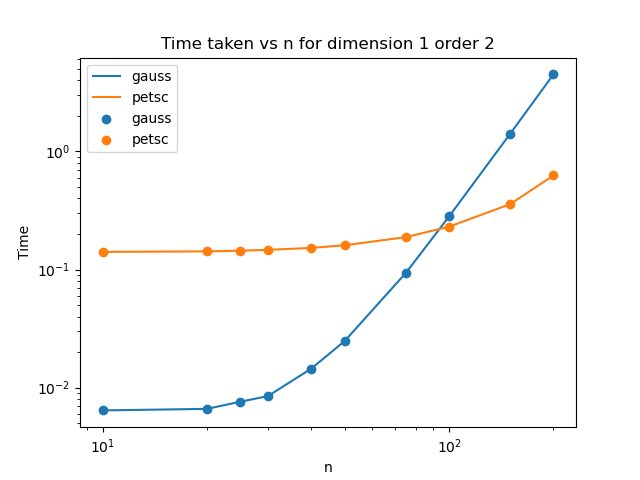
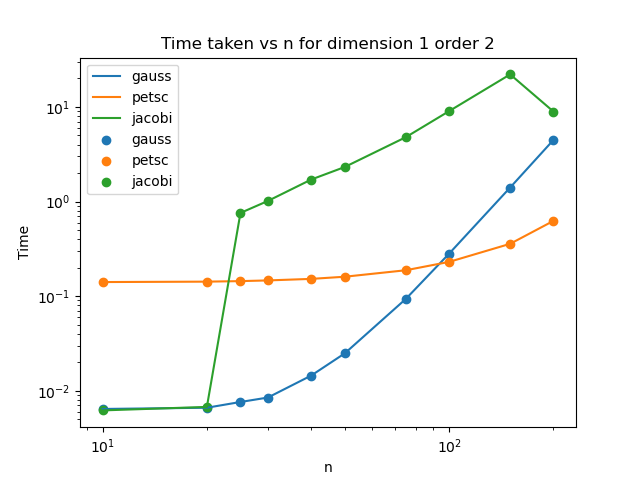
Added plots for jacobi

diff --git a/proj02/src/plot_convergence.py b/proj02/src/plot_convergence.py
@@ -69,7 +69,7 @@ for order in orders:
 		plt.clf()
 
 solvers = ['gauss', 'petsc']
-orders = [2, 4]
+orders = [4]
 for order in orders:
 	for dimension in dimensions:
 		for solver in solvers:
